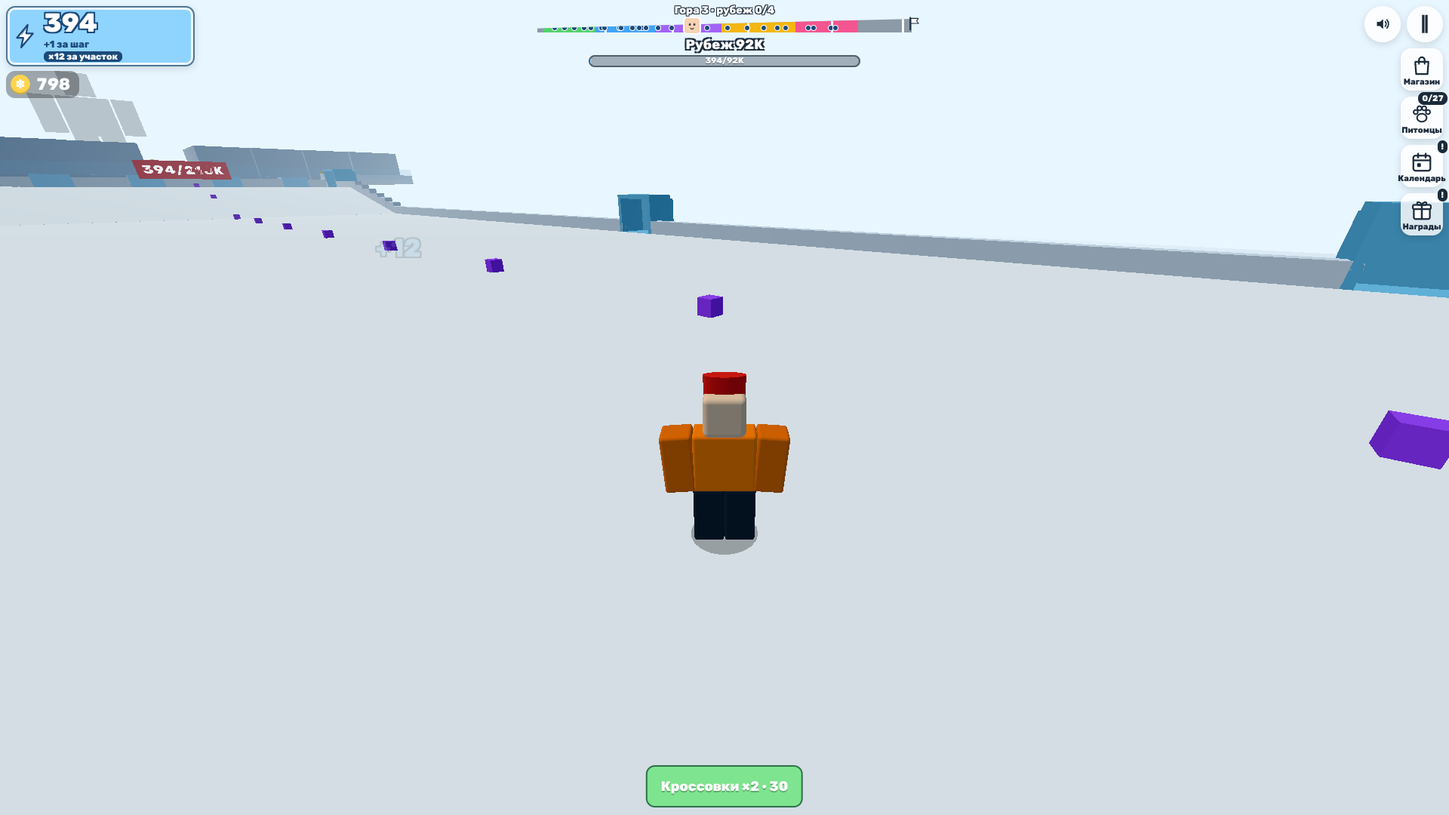
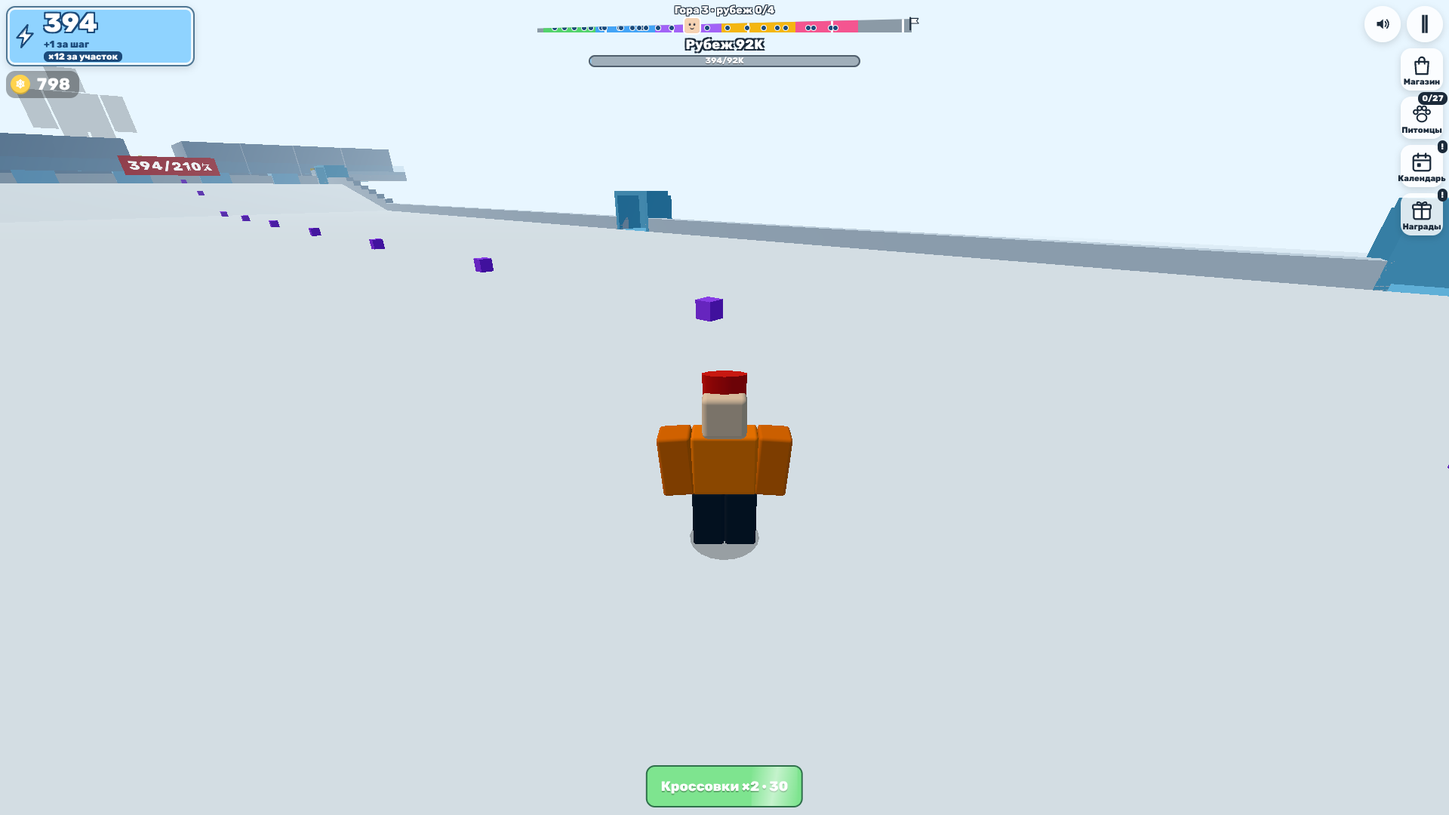
SP-10 (в работе): плейтест — камера на дорожке грота-скалы (кадр в осях скалы, её крыша прячется), камера не в голове героя, выше фронта нет предупреждения о лавине
Claude-Session: https://claude.ai/code/session_01MjGxzPesTLqozMdbKebqkx

diff --git a/e2e/sp-camera.spec.ts b/e2e/sp-camera.spec.ts
@@ -1,6 +1,7 @@
 import type { Page } from '@playwright/test';
 import { mkdirSync } from 'node:fs';
 import { test, expect, shot1080, testState, waitTicks } from './fixtures.ts';
+import { passX } from './base-route.ts';
 import openWorlds from '../content/avalanche/pace/open/worlds.json' with { type: 'json' };
 import tuning from '../content/avalanche/tuning.json' with { type: 'json' };
 import openTuning from '../content/avalanche/pace/open/tuning.json' with { type: 'json' };
@@ -198,4 +199,70 @@ test('mountain 2: on the belt of the grotto of ridge 1 the record flag is never 
   st = await page.evaluate(() => window.__TEST__!.cameraStats());
   expect(st.flagBlocked, JSON.stringify(st.bad)).toBe(0);
   await page.evaluate(() => window.__TEST__!.setCamera('auto'));
+});
+
+// SP-10 (playtest of «Размах»: on the belt under the roof of a rock grotto the hero was not seen for 21 s — the wide frame
+// took the axes of a side grotto and the roof of the rock stayed drawn; in a ridge passage the camera sat in his head):
+// every rock grotto with a belt of mountains 1–2 — on its belt (the belt frame) and in an avalanche frame there the line
+// to the hero is clear, the hero drawn, the camera never at his body; through the passages of the ridges of mountain 1
+// the camera never at his body either. Screenshot of the belt frame.
+test('rock grottos with a belt, mountains 1–2: on the belt and in an avalanche frame the hero is seen, the camera never at him; ridge passages', async ({ page, openGame }) => {
+  test.setTimeout(360_000);
+  await start(page, openGame);
+  const rows: string[] = [];
+  let bad = 0;
+  for (const m of [1, 2]) {
+    await toMountain(page, m);
+    const list = (await page.evaluate(() => window.__TEST__!.shelters())) as Shelter[];
+    const rocks = list.filter((s) => s.kind === 'island' && s.belt);
+    expect(rocks.length, `mountain ${m}`).toBeGreaterThan(0);
+    for (const n of rocks) {
+      await page.evaluate(([z, x]) => window.__TEST__!.teleport(z, x), [n.belt![1], n.belt![0]] as const);
+      await waitTicks(page, 30);
+      expect((await testState(page)).onBelt, `mountain ${m} z ${n.z.toFixed(0)}`).toBe(true);
+      await page.evaluate(() => window.__TEST__!.resetCameraStats());
+      await waitTicks(page, 120);
+      const belt = await page.evaluate(() => window.__TEST__!.cameraStats());
+      if (rows.length === 0) await shot1080(page, `${EVIDENCE}/island_belt_1920x1080_ru.png`);
+      // An avalanche over the rock: its frame from the start of the warning.
+      await page.evaluate(() => {
+        window.__TEST__!.setTimeScale(4);
+        window.__TEST__!.triggerWave();
+      });
+      await page.waitForFunction(() => window.__TEST__!.state().waveHud.shot, undefined, { timeout: 60_000 });
+      await page.evaluate(() => window.__TEST__!.resetCameraStats());
+      await waitTicks(page, 60);
+      const wave = await page.evaluate(() => window.__TEST__!.cameraStats());
+      await page.waitForFunction(() => window.__TEST__!.state().wave?.phase === 'idle', undefined, { timeout: 90_000 });
+      await page.evaluate(() => {
+        window.__TEST__!.setTimeScale(1);
+        window.__TEST__!.holdWave(900);
+      });
+      for (const [what, st] of [
+        ['belt', belt],
+        ['avalanche', wave],
+      ] as const) {
+        const miss = st.heroHidden + st.heroBlocked + st.heroNear + st.inside;
+        bad += miss;
+        rows.push(`mountain ${m} z ${n.z.toFixed(0)} ${what}: ${st.frames} frames, hidden ${st.heroHidden}, blocked ${st.heroBlocked}, at him ${st.heroNear}, inside ${st.inside}${st.bad.length ? ` — ${st.bad.slice(0, 3).join('; ')}` : ''}`);
+      }
+    }
+  }
+  // The passages of the ridges of mountain 1, open: from below the carniz through its pass nearest the middle and on.
+  await toMountain(page, 1);
+  const m1 = worlds[0]!.segments.filter((g) => g.type === 'gate' && g.kind === 'ridge') as Array<Seg & { passes?: number[] }>;
+  for (const r of m1) {
+    const x = passX(r);
+    await page.evaluate(([z, xx]) => window.__TEST__!.teleport(z, xx), [r.z - 30, x] as const);
+    await waitTicks(page, 20);
+    await page.evaluate(() => window.__TEST__!.resetCameraStats());
+    await page.evaluate((p) => window.__TEST__!.botPath(p), [[x, r.z - 4], [x, r.z + 30]] as Array<[number, number]>);
+    await page.waitForFunction(() => window.__TEST__!.botLeft() === 0, undefined, { timeout: 30_000 });
+    const st = await page.evaluate(() => window.__TEST__!.cameraStats());
+    bad += st.heroNear + st.inside + st.heroHidden;
+    rows.push(`ridge z ${r.z.toFixed(0)} pass x ${x}: ${st.frames} frames, hidden ${st.heroHidden}, at him ${st.heroNear}, inside ${st.inside}${st.bad.length ? ` — ${st.bad.slice(0, 3).join('; ')}` : ''}`);
+  }
+  await page.evaluate(() => window.__TEST__!.botPath(null));
+  console.log(rows.join('\n'));
+  expect(bad, rows.join('\n')).toBe(0);
 });

diff --git a/src/app/wave-view.ts b/src/app/wave-view.ts
@@ -105,9 +105,14 @@ export function createWaveView(d: WaveViewDeps): WaveView {
       const dz = running ? ts.frontZ - hero.z : Infinity;
       d.visual.update(ts, timeSec, d.camera.camera.position);
 
+      // Up past the point the front starts from (docs/01-gdd.md 17.1, 17.5: the finish straight is the giant's): it rolls
+      // down below him, no banner, frost or arrow to a grotto behind him (playtest SP: «Avalanche in 11» 8 units off the
+      // end of the giant's zone sent the hero 330 units back down).
+      const safeAbove = !ts.scripted && ts.phase !== 'idle' && hero.z >= ts.spawnZ;
       // Banner: «Avalanche in N» on warn, «Avalanche!» until the front reaches the hero.
       let banner: string | null = null;
-      if (ts.phase === 'warn') banner = t('wave.warn', { n: Math.max(1, Math.ceil(ts.timer)) });
+      if (safeAbove) banner = null;
+      else if (ts.phase === 'warn') banner = t('wave.warn', { n: Math.max(1, Math.ceil(ts.timer)) });
       else if (running && ts.outcome === 'none' && dz > 0) banner = t('wave.run');
       view.banner = banner;
       d.hud.setWaveBanner(banner);
@@ -115,7 +120,7 @@ export function createWaveView(d: WaveViewDeps): WaveView {
       // Frost frame and shake by distance (docs/01-gdd.md 4.8).
       let frost = 0;
       let shake = 0;
-      if (ts.phase === 'warn') frost = FROST_WARN;
+      if (ts.phase === 'warn' && !safeAbove) frost = FROST_WARN;
       if (running && Math.abs(dz) <= d.tuning.avalanche.nearDist * 3) {
         const near = Math.abs(dz) < av.nearDist;
         frost = near ? 1 : FROST_WARN;
@@ -130,7 +135,7 @@ export function createWaveView(d: WaveViewDeps): WaveView {
       // right above the cave mouth pointing down when it is on screen.
       const cave = sim.level.niches[ts.shelter];
       let arrow: { x: number; y: number; angle: number } | null = null;
-      if (cave && (ts.phase === 'warn' || (running && ts.outcome === 'none')) && sim.shelterIndex() < 0) {
+      if (cave && !safeAbove && (ts.phase === 'warn' || (running && ts.outcome === 'none')) && sim.shelterIndex() < 0) {
         // A tunnel (docs/01-gdd.md 18.3) and a grotto in a rock (SP-04): its nearer mouth, not the track edge by its middle.
         if (cave.kind === 'tunnel' || cave.kind === 'island') {
           const e = distToEntrance(sim.level, cave, hero.x, hero.z);
@@ -202,7 +207,21 @@ export function createWaveView(d: WaveViewDeps): WaveView {
           // Behind the back wall or over the roof: at least the camera radius off its outer face.
           const back = sign < 0 ? c.box.min[0] - NICHE_WALL - r : c.box.max[0] + NICHE_WALL + r;
           const roof = c.box.max[1] + NICHE_WALL + r;
+          // A grotto in a rock (SP-04) opens to the camp (−z): its depth runs up the slope, its width across it (SP-10:
+          // with the axes of a side grotto the frame stood over the rock and its roof hid the hero on the belt).
+          const island = c.kind === 'island';
           const at = (q: readonly [number, number, number], out: Vector3, clamp: boolean): Vector3 => {
+            if (island) {
+              out.set(c.box.min[0] + q[2] * (c.box.max[0] - c.box.min[0]), c.box.min[1] + q[1] * (c.box.max[1] - c.box.min[1]), c.box.min[2] + q[0] * (c.box.max[2] - c.box.min[2]));
+              if (clamp && q[1] > 1) out.y = Math.max(roof, out.y);
+              else if (clamp) {
+                if (q[0] > 1) out.z = Math.max(c.box.max[2] + NICHE_WALL + r, out.z);
+                else out.z = Math.min(c.box.max[2] - r, Math.max(c.box.min[2] + r, out.z));
+                out.x = Math.min(c.box.max[0] - r, Math.max(c.box.min[0] + r, out.x));
+                out.y = Math.min(c.box.max[1] - r, Math.max(c.box.min[1] + r, out.y));
+              }
+              return out;
+            }
             out.set(mouth + sign * q[0] * depth, c.box.min[1] + q[1] * (c.box.max[1] - c.box.min[1]), c.box.min[2] + q[2] * (c.box.max[2] - c.box.min[2]));
             if (clamp && q[1] > 1) out.y = Math.max(roof, out.y);
             else if (clamp) {

diff --git a/src/render/camera.ts b/src/render/camera.ts
@@ -76,6 +76,8 @@ export interface CameraRig {
 const _desired = new Vector3();
 const _dir = new Vector3();
 const _probe = new Sphere(new Vector3(), 0.4);
+/** A point on the way of clearWay (blocked() copies it into _probe). */
+const _probe2 = new Vector3();
 const _tmp = new Vector3();
 const _head = new Vector3();
 const _look = new Vector3();
@@ -171,6 +173,12 @@ export function createCameraRig(camera: PerspectiveCamera, frame: ControlFrame, 
     _probe.center.copy(p);
     _probe.radius = r;
     return collision.sphereHit(_probe) !== null;
+  };
+  /** The straight way a → b crosses no face (a point deep inside a thick box touches none: the way, not the end). */
+  const clearWay = (a: Vector3, b: Vector3, r: number, collision: CollisionWorld): boolean => {
+    const n = Math.max(1, Math.ceil(a.distanceTo(b) / (r * 0.5)));
+    for (let i = 1; i <= n; i++) if (blocked(_probe2.lerpVectors(a, b, i / n), r, collision)) return false;
+    return true;
   };
   /** Free distance from the pivot along the direction (yaw, pitch) up to `want`, 0.5 short of the first hit. */
   const freeDistance = (yaw: number, pitch: number, want: number, collision: CollisionWorld): number => {
@@ -514,19 +522,23 @@ export function createCameraRig(camera: PerspectiveCamera, frame: ControlFrame, 
         if (collision && blocked(_desired, c.collisionRadius * 0.5, collision)) _desired.copy(_tmp);
       }
       // Never inside the hero (PR-13; playtest FM: «flies into the hero in the grotto after the avalanche»): whatever moved
-      // the point this frame (a blend on a slow frame, the shake, a pull off a wall), closer than hideDistance to his chest
-      // it goes out to it along the same line, unless a wall is there.
-      _seg.copy(_desired).sub(heroChest);
+      // the point this frame (a blend on a slow frame, the shake, a pull off a wall), closer than hideDistance to his body
+      // from chest to head it goes out to it along the same line, unless a wall is there (playtest SP: in a ridge passage the
+      // camera sat in his head, farther than hideDistance from the chest).
+      _from.set(heroChest.x, Math.min(heroHead.y, Math.max(heroChest.y, _desired.y)), heroChest.z);
+      _seg.copy(_desired).sub(_from);
       if (_seg.length() < c.hideDistance) {
         if (_seg.lengthSq() < 1e-6) _seg.set(-Math.sin(frame.viewYaw), 0.5, -Math.cos(frame.viewYaw));
-        _tmp.copy(heroChest).addScaledVector(_seg.normalize(), c.hideDistance * 1.05);
-        if (!collision || !blocked(_tmp, c.collisionRadius * 0.5, collision)) _desired.copy(_tmp);
+        _tmp.copy(_from).addScaledVector(_seg.normalize(), c.hideDistance * 1.05);
+        // No way out that side (a closed gate, a roof): straight over his head; neither — he is hidden below.
+        if (collision && !clearWay(_desired, _tmp, c.collisionRadius * 0.5, collision)) _tmp.set(heroHead.x, heroHead.y + c.hideDistance * 1.05, heroHead.z);
+        if (!collision || clearWay(_desired, _tmp, c.collisionRadius * 0.5, collision)) _desired.copy(_tmp);
       }
       camera.position.copy(_desired);
       if (_desired.distanceToSquared(_look) > 1e-6) camera.lookAt(_look);
       // Projections later in this frame (HUD arrows, signs under the banner) use this view, not the last one.
       camera.updateMatrixWorld();
-      rig.heroHidden = camera.position.distanceTo(heroChest) < c.hideDistance;
+      rig.heroHidden = bodyDistance(camera.position) < c.hideDistance;
 
       // FOV from speed, smoothed.
       const ratio = shareOf(target);

diff --git a/e2e/open-avalanche.spec.ts b/e2e/open-avalanche.spec.ts
@@ -5,7 +5,7 @@ import openWorlds from '../content/avalanche/pace/open/worlds.json' with { type:
 
 // PS-06: the avalanche on the open slope (docs/01-gdd.md 17.5, 17.8). The physical bot runs up from the camp; at the
 // entry of section 2 the scripted siren, the bot runs into the lit grotto — «Phew, made it!» within 46 s of the start.
-// A normal wave with the hero in the giant's zone (above spawnMaxZ) never catches him.
+// A normal wave with the hero in the giant's zone (above spawnMaxZ) never catches him, and says nothing there (SP-10).
 type Seg = { type: string; z: number; side?: string; kind?: string; length?: number; edge?: number; between?: number; track?: number };
 type OpenWorld = { segments: Seg[]; bosses: Array<{ zone: [number, number] }>; threat: { spawnMaxZ: number } };
 const world = (openWorlds as unknown as { worlds: OpenWorld[] }).worlds[0]!;
@@ -52,7 +52,7 @@ test('scripted wave at the entry of section 2: the bot in its grotto, «Phew, ma
   expect(funnel?.params).toMatchObject({ inShelter: true });
 });
 
-test('a normal wave with the hero in the giant’s zone (above spawnMaxZ) never catches him', async ({ page, openGame }) => {
+test('a normal wave with the hero in the giant’s zone (above spawnMaxZ) never catches him; no warning, arrow or «To the cave!» up there', async ({ page, openGame }) => {
   test.setTimeout(120_000);
   await openGame('pace=open');
   // The scripted wave first (it never catches), then a normal one with the hero up in the zone.
@@ -74,6 +74,16 @@ test('a normal wave with the hero in the giant’s zone (above spawnMaxZ) never 
   await page.waitForFunction(() => window.__TEST__!.state().wave?.phase === 'warn', undefined, { timeout: 30_000 });
   const s0 = await testState(page);
   expect(s0.wave!.spawnZ).toBeLessThanOrEqual(world.threat.spawnMaxZ);
+  // SP-10 (playtest SP: «Avalanche in 11» by the end of the zone sent the hero 330 units back): no threat up here — no
+  // banner, no arrow to a grotto below, no «To the cave!».
+  for (let k = 0; k < 10; k++) {
+    const st = await testState(page);
+    if (st.wave?.phase === 'gone') break;
+    expect(st.waveHud.banner, `${st.wave?.phase}`).toBeNull();
+    expect(st.waveHud.arrow).toBe(false);
+    expect(st.hint).not.toBe('wave.cave');
+    await waitTicks(page, 5);
+  }
   await page.waitForFunction(() => window.__TEST__!.state().wave?.phase === 'gone', undefined, { timeout: 60_000 });
   await page.evaluate(() => window.__TEST__!.setTimeScale(1));
   const s = await testState(page);

diff --git a/src/render/level-mesh.ts b/src/render/level-mesh.ts
@@ -187,6 +187,14 @@ export function createLevelMeshes(level: LevelData, theme: ThemeJson, suffix: (k
   };
   // The back wall of a cave is a cave wall outside the cave box on its far side, the roof lies over it (src/level/builder.ts).
   const partOf = (b: LevelBox): { niche: number; part: CavePart } | null => {
+    // A grotto in a rock (SP-04): its roof over it, its back wall past its far (uphill) end; the side walls stay drawn.
+    if (b.kind === 'islandRoof' || b.kind === 'islandWall') {
+      const roof = b.kind === 'islandRoof';
+      const niche = level.niches.findIndex(
+        (n) => n.kind === 'island' && b.min[0] < n.box.max[0] && b.max[0] > n.box.min[0] && (roof ? b.min[2] < n.box.max[2] && b.max[2] > n.box.min[2] : b.min[2] >= n.box.max[2] - 1e-6 && b.min[2] <= n.box.max[2] + 1e-6),
+      );
+      return niche >= 0 ? { niche, part: roof ? 'roof' : 'back' } : null;
+    }
     if (b.kind !== 'nicheWall' && b.kind !== 'nicheRoof') return null;
     const niche = level.niches.findIndex(
       (n) =>

diff --git a/src/app/ftue-view.ts b/src/app/ftue-view.ts
@@ -117,8 +117,10 @@ export function createFtueView(d: FtueViewDeps): FtueView {
       const firstWaveDone = d.save.flags?.['firstWaveDone'] ?? false;
       const shoes = d.shoes();
       // Wave hint: the scripted wave and the first normal ones (wave.cave counts the shows, docs/01-gdd.md 6.5).
-      const warn = ts?.phase === 'warn';
-      const active = ts !== undefined && (warn || (ts.phase === 'run' && ts.outcome === 'none'));
+      // Up past the point the front starts from it is no threat (docs/01-gdd.md 17.5; app/wave-view.ts): no «To the cave!».
+      const safeAbove = ts !== undefined && !ts.scripted && ts.phase !== 'idle' && hero.pos.z >= ts.spawnZ;
+      const warn = ts?.phase === 'warn' && !safeAbove;
+      const active = ts !== undefined && !safeAbove && (warn || (ts.phase === 'run' && ts.outcome === 'none'));
       // Closed gate ahead within stuckDist (docs/01-gdd.md 6.5, hint.stuck).
       let nearGate = -1;
       sim.level.gates.forEach((g, i) => {

diff --git a/docs/evidence/sp/playtest.md b/docs/evidence/sp/playtest.md
@@ -1,0 +1,69 @@
+# Плейтест-смоук вехи «Размах» (SP)
+
+13.10, сборка `build:e2e` (коммит af0fbea), темп `open` по умолчанию, свежее сохранение на каждом устройстве. Ошибок в консоли: 0 (оба прогона).
+
+**Как играл.** Автопилот на Playwright, ввод только через устройства: касания через CDP (плавающий стик слева, кнопка прыжка, свайп камеры справа), на ПК клавиши WASD/пробел и перетаскивание мышью. `window.__TEST__` использовал только для чтения состояния и событий.
+- Телефон 844×390, `?mock_device=mobile`: 60 с.
+- ПК 1920×1080: 300 с. Гора 1, вершина на 145 с, база 147–180 с, портал, гора 2 до 300 с.
+
+Рендер программный (SwiftShader): на ПК 10–15 кадр/с, симуляция идёт примерно в 0,8 от реального времени. Поэтому все секунды в отчёте — игровые, а плавность по ощущению я не оценивал.
+
+**Оговорки.**
+- В тесных местах автопилот хуже ребёнка. В большинстве подготовительных прогонов он хотя бы раз застревал у островного укрытия первой лавины — в жёлобе за ним или внутри, у пьедестала яйца, — от 6 до 50 с. Это риск для живого игрока, но в баллы застревания не засчитаны; в зачётных прогонах их нет.
+- Звук на слух не проверен.
+
+**Где лежит.**
+- Кадры: `test-results/playtest/sp/frames/`.
+- Контактные листы: `test-results/playtest/sp/sheets/sheet-NN-*.png`, 20 штук; список кадров на каждом листе — `sheets/index.txt`.
+- Журнал событий: `test-results/playtest/sp/events.txt`.
+
+## Баллы
+
+| # | Критерий | Балл | Почему |
+|---|---|---|---|
+| 1 | Понятно за 5 с, куда бежать и зачем | 3 | Куда бежать, подсказывают плашка «Беги вверх!» с клавишами или стиком и зелёный пунктир на снегу. А «зачем» видно только из HUD «Рубеж 50 · 0/50»: стена «50» на старте — крошечная табличка у горизонта (листы 01, 05). На базе всё ясно без слов: луч над порталом и стрелки на полу (лист 14). |
+| 2 | Отзывчивость управления и камеры | **2** | Бег откликается сразу. Но в островных укрытиях камера теряет героя: на дорожке перед стеной «1,5K» 21 с видна только крыша и размытая красная табличка (`pc-076s`, лист 09; на телефоне — 50–57 с, лист 04). У укрытия z1050 и в проходе стены «1,5K» камера оказывается в голове героя (`pc-122s`, 132 с, лист 12). В зоне великана полэкрана закрывает рябь полупрозрачных камней (листы 11, 13). Подробно по местам — ниже. |
+| 3 | Сочность | 3 | Есть «+N» над головой и у плашки, тост на каждое событие, летящие монеты, сундук на вершине (листы 02, 07, 13). Но на ПК «+N» мелкие и бледные. Стена тает, когда герой ещё в 100+ ед от неё, — самого таяния не видно. Лавина выглядит как серая вуаль или белый экран, фронта почти не видно (листы 02, 07). |
+| 4 | Цельность стиля | 3 | Блочные формы и бело-голубая палитра едины, табличка стены честно меняется с красной на зелёную, интерфейс ровный. Но склон пустой и белёсый. «Ёлочная горка» неотличима от горы 1 (листы 16–17). У старта стоят случайные крупные оранжевые и синие блоки (лист 01). Ровно, но безлико. |
+| 5 | Первые 60 с по 6.2 | 3 | Награды идут чаще сценария: кроссовки на 4 с, рубеж на 6 с, сирена на 12 с, дорожка на 29 с, рубеж 2 на 34 с, рубеж 3 на 57 с (`events.txt`). Но лавина не «вау»: на телефоне героя у самой стены укрытия накрыла вуаль с надписью «В пещеру, когда идёт лавина!» (лист 02, 18–20 с). Яйцо на телефоне за 60 с не взято. С 50 по 57 с героя не видно. |
+| 6 | Честность лавины | 3 | Сирена даёт 5 с на первую волну и 11 с на остальные, стрелка показывает укрытие; на ПК во всех 4 волнах до укрытия успевал. Но на телефоне вход первого укрытия — с нижней стороны острова, рядом ледяная полоса-ускоритель: герой оказался у боковой стены и его «пылит» (лист 02, 18–20 с). В подготовительных прогонах полоса проносила мимо входа на скорости 50+. На ПК на 110 с сирена застала героя в 8 ед от конца зоны великана, а стрелка повела на 330 ед вниз, назад через великана (`pc-109s`). |
+| 7 | Хочется сыграть ещё | 4 | С первых секунд видны следующая стена с числом, силуэт великана, полоса горы с флажком, кнопка следующих кроссовок с ценой. На вершине — итог с тизером календаря, на базе — 10 порталов и доска рекордов (листы 05, 13–15). Минусы: гора 2 повторяет гору 1, а стены 7,1K–23K берутся только стоянием по 20–40 с на дорожке (листы 18–20). |
+
+**Средний балл: 3,0** (3 + 2 + 3 + 3 + 3 + 3 + 4 = 21 / 7). Пункт ниже 3 — камера (2).
+
+### Камера по местам (строго)
+
+| Где | Оценка | Что видно |
+|---|---|---|
+| Островные укрытия (z387, z620, z1020, z1050) | плохо | Сверху видна одна крыша, героя нет: ПК 32–34 с (листы 06–07), дорожка z1020 66–87 с (лист 09), телефон 34–38 и 50–57 с (листы 03–04). По `cameraStats` на дорожке z1020 герой закрыт почти в каждом кадре. У z1050 (122 с) и в проходе стены «1,5K» (126 и 132 с) камера в 1,3–1,5 ед от героя, то есть в голове (лист 12). |
+| Боковые гроты (гора 1 z310, гора 2) | терпимо | Камера сверху-сзади, в 2,3–3,9 ед. Стены занимают до половины кадра, но герой и дорожка видны (лист 06 16–18 с, листы 17–20). |
+| После выхода из грота | терпимо | Зелёная табличка открытой стены «50» занимает треть экрана. Герой 3 с упирается в стену рядом с табличкой (лист 06, 22–24 с). |
+| Зона великана | средне | Великан крупный и читается (листы 10–12). Но камера проходит сквозь камни-укрытия, и полэкрана закрывает серая рябь (лист 11 106–108 с, лист 13 138–140 с). После поимки огромная плашка «Великан: Скорость ~2,2K» закрывает правую половину кадра (лист 10, 96 с). |
+| Вершина у портала | норм | Камера у рамки портала, окно «Гора 1 пройдена!» поверх, герой виден (лист 13, 144 с). |
+| База | хорошо | Широкий обзор: дуга порталов, луч над своим порталом, стрелки на полу, доска рекордов читается (листы 14–15). При входе в портал верх рамки и подпись обрезаны (лист 16, 180 с) — мелочь. |
+
+## 3 худших момента
+
+1. **ПК 66–87 с (на телефоне 50–57 с).** Игрок стоит на дорожке-острове перед стеной «1,5K», а героя 21 с не видно: в кадре крыша укрытия и размытая красная табличка «1,16K/1,5K», поверх бледное «+3». Кадр — `docs/evidence/sp/playtest/pc-076s.png`, лист 09.
+2. **ПК 122 и 132 с.** У укрытия z1050 перед лавиной, а потом в проходе стены «1,5K»: камера внутри головы героя, весь экран — красная шапка и лицо, поверх «Лавина через 2». Кадр — `docs/evidence/sp/playtest/pc-122s.png`, лист 12.
+3. **ПК 109–124 с.** «Лавина через 11» приходит, когда герой в 8 ед от конца зоны великана: сундук и луч портала уже в кадре, а стрелка внизу слева зовёт назад. Укрытие — на 330 ед ниже, путь лежит обратно через великана, потом всю зону приходится проходить заново. Фронт при этом стартовал с z1060, ниже того места, где был герой. Ребёнок обидится. Кадр — `docs/evidence/sp/playtest/pc-109s-e_waveWarn.png`, лист 11.
+
+## 3 правки по важности
+
+1. **Камера в укрытиях и на дорожках под крышей** (пункты 2, 3, 5). Пусть геометрия между камерой и героем гаснет — крыша острова, табличка стены, камни великана — вместо того чтобы камера въезжала в героя. Камере не подходить к герою ближе ~3 ед. Цель: в любом укрытии видны герой, дорожка и растущее число.
+2. **Сирена не гонит назад** (пункт 6). Если ближайшее укрытие ниже героя на сотни единиц или герой выше точки старта фронта, волну на этом участке не запускать или вести стрелкой вперёд. Ещё один вариант — укрытие у выхода из зоны великана. В зоне великана и в последних ~50 ед до вершины волна не стартует.
+3. **Сделать лавину видимой, а первую — «вау»** (пункты 3, 5, 6). Пусть из укрытия видно, как катится фронт: камера поворачивается к склону, как в 6.2, а не показывает крышу и белый экран. Вход первого укрытия должен быть виден, и ледяная полоса не должна проносить героя мимо него. На ПК — крупнее «+N», и стена тает ближе к герою, чтобы таяние было видно.
+
+## Проверено / не проверено
+
+- **Проверено:** первые 60 с на телефоне и 300 с на ПК; первая сценарная волна (на обоих устройствах) и ещё 3 обычные на ПК; великан с двумя поимками; вершина и окно итога; база; вход в портал горы 2; кроссовки; яйцо и питомец (на ПК, 42 с).
+- **Не проверено:**
+  - звук на слух;
+  - плавность при реальном GPU;
+  - кнопка «▶ Реклама: +N скорости» — видел, но не нажимал;
+  - лавка и календарь на базе;
+  - телефон дольше 60 с.
+- **Мелочи:**
+  - на старте на телефоне нет контура стика, стик появляется только по касанию;
+  - на телефоне тосты ложатся поверх таблички стены («Снежные: ×3 за шаг», лист 02, 30 с);
+  - у вершины в цели HUD видна надпись «Великан в 11» (`pc-109s`).

diff --git a/docs/02-tech.md b/docs/02-tech.md
@@ -312,10 +312,10 @@ index.html, vite.config.ts, tsconfig.json, vitest.config.ts, playwright.config.t
 - Следование с критическим демпфированием (около 20/с) и упреждением на 0,15 с по скорости: на 64 ед/с камера не отстаёт.
 - Авторазворот: камера тянется к оси трассы +Z (а не за скоростью героя), 2,5 рад/с, и только если стик или клавиши в пределах ±30° от «вперёд» и камеру не трогали вручную 1,2 с. В автобеге авторазворот выключен. Авторазворот меняет только `viewYaw`, направление бега — нет (6.3). Ручной поворот всегда главнее. С прототипа PR (решение продюсера 05.10, `01-gdd.md` 16.7) авторазворот за флагом `tuning.json camera.autoTurn` и выключен: при беге вниз камера не перекручивается вверх, вместо этого — стрелка «не туда» (`src/app/way-view.ts`).
 - «Игрок крутит камеру вручную» (для постановочных кадров ниже) = перетаскивание на зоне камеры (палец или мышь) дальше `input.tapMovePx` в этом тике либо такой поворот за последние 0,5 с. Лежащий без движения палец или зажатая кнопка — не поворот (с прототипа PR, фича PR-13, допущение 53: у детей большой палец часто лежит на экране, и широкий план на дорожке не включался).
-- Стены: сфера радиусом 0,4 от точки над головой к желаемой позиции против Octree уровня (`sphereIntersect` по шагам или капсула радиусом 0,4), ближняя плоскость камеры 0,1. Есть пересечение — камера встаёт на 0,5 ед ближе точки удара: подъезд мгновенно, отъезд 4 ед/с. Камера никогда не внутри стены и не внутри героя (ближе 2,5 ед — герой скрывается).
+- Стены: сфера радиусом 0,4 от точки над головой к желаемой позиции против Octree уровня (`sphereIntersect` по шагам или капсула радиусом 0,4), ближняя плоскость камеры 0,1. Есть пересечение — камера встаёт на 0,5 ед ближе точки удара: подъезд мгновенно, отъезд 4 ед/с. Камера никогда не внутри стены и не внутри героя: ближе 2,5 ед к оси его тела от груди до головы — точку выносит на 2,5 ед по свободному пути (весь путь, а не только конец: точка в толще льда стены поверхности не касается), путь закрыт — над головой, закрыто и там — герой скрывается (плейтест SP: в пролёте рубежа камера сидела в голове).
 - Ощущение скорости: FOV 70° плюс до 14° на максимальной скорости, сглаживание 0,3 с; линии ветра выше 60% максимума (темп простор — свои числа, пункт «Простор» ниже).
 - Лавина: когда герой в пещере (нише) и фронт ближе 30 ед, камера сама поворачивается к лавине и отъезжает до 6 ед, пока волна проходит, затем за 1 с возвращается. Всё это время камера остаётся в объёме пещеры с входом (AABB пещеры + 2 ед) и смотрит наружу, на склон. Кадр меняет только `viewYaw` (6.3). Если игрок крутит камеру вручную — не вмешиваемся. Первая волна по сценарию — всегда с этим кадром (вау-момент первой минуты).
-- Широкий план в пещере (прототип PR, `01-gdd.md` 16.7, фича PR-07): кадр лавины из пещеры ставится над задней стеной со стороны лагеря, FOV 100, крыша и задняя стена этой пещеры на время кадра не рисуются (отдельный InstancedMesh); числа — `tuning.json avalanche.caveShot` (`pos[0]` > 1 — кадр из-за задней стены, ≤ 1 — прежний кадр внутри). Допущение 38 в `docs/допущения.md`.
+- Широкий план в пещере (прототип PR, `01-gdd.md` 16.7, фича PR-07): кадр лавины из пещеры ставится над задней стеной со стороны лагеря, FOV 100, крыша и задняя стена этой пещеры на время кадра не рисуются (отдельный InstancedMesh); числа — `tuning.json avalanche.caveShot` (`pos[0]` > 1 — кадр из-за задней стены, ≤ 1 — прежний кадр внутри). Допущение 38 в `docs/допущения.md`. Грот в скале (SP-04, вход к лагерю): те же доли в осях скалы — глубина вверх по склону от входа, ширина поперёк; её крыша и задняя стена прячутся так же (`app/wave-view.ts`, `render/level-mesh.ts`; плейтест SP: в осях бокового грота кадр вставал над скалой, и крыша закрывала героя на дорожке).
 - Камера всё же оказалась внутри корпуса лавины (например, едет за комом «Накрыло» внутри волны) — мягкая белая вуаль поверх кадра, без затемнения, корпус в этот момент не рисуется (8.3).
 - Проверка e2e: в 3 точках у стен и в пещере во время волны камера не внутри геометрии Octree и не внутри корпуса лавины.
 - Помехи и великан (FM-03, `01` 19.8): великан между камерой и головой или грудью героя — сквозной (`camera.fadeAlpha`: доля пикселей, дизеринг в шейдере частей персонажа, атрибут `fade` экземпляра; без смешивания и лишних draw calls). В зоне великана при беге вверх `CameraRig.keep` — точка великана впереди: `viewYaw` не отходит от неё дальше `camera.bossKeepDeg` (3 рад/с), поворот рукой отдаёт камеру игроку до выхода из зоны. Замер — e2e `fm-camera.spec.ts` (`cameraStats().headBlocked`, `bossSeen`), отчёт `docs/evidence/fm/camera.md`.

diff --git a/docs/01-gdd.md b/docs/01-gdd.md
@@ -961,7 +961,7 @@
 - Как переключить (вариант B): `stepMult` = 1 на всех участках, дорожки гротов — как в `fast` (`01a` 15.2); тогда склон снова декорация. Не рекомендую.
 
 ### 17.5 Лавина — ограничитель по пути
-- Цикл и фазы — 4.1–4.2 (числа по горам — `01a` 16.1: пауза 50 → 40 с, предупреждение 8 → 6 с, фронт 45 → 60 ед/с, первая лавина горы 1 через 30 с, гор 2–10 — 12 → 10 с). Новое: точка появления не выше начала зоны великана — `threat.spawnMaxZ` у горы: на финишной прямой и вершине лавина не ловит, там проверяет великан. Герой у подножия видит, как лавина катится над финишной прямой мимо великана — зрелище, не угроза.
+- Цикл и фазы — 4.1–4.2 (числа по горам — `01a` 16.1: пауза 50 → 40 с, предупреждение 8 → 6 с, фронт 45 → 60 ед/с, первая лавина горы 1 через 30 с, гор 2–10 — 12 → 10 с). Новое: точка появления не выше начала зоны великана — `threat.spawnMaxZ` у горы: на финишной прямой и вершине лавина не ловит, там проверяет великан. Герой выше точки, откуда сходит фронт, не видит ни «Лавина через N», ни стрелки к гроту, ни «В грот!»: ему она не грозит (плейтест SP: сирена у конца зоны великана гнала героя на 330 ед назад). Герой у подножия видит, как лавина катится над финишной прямой мимо великана — зрелище, не угроза.
 - **Укрытия** (все — сегмент `niche` с полем `kind`, вид — `theme.json.fx.shelterMesh` по `kind`):
 
 | Укрытие | Где | Что внутри | Цена |
